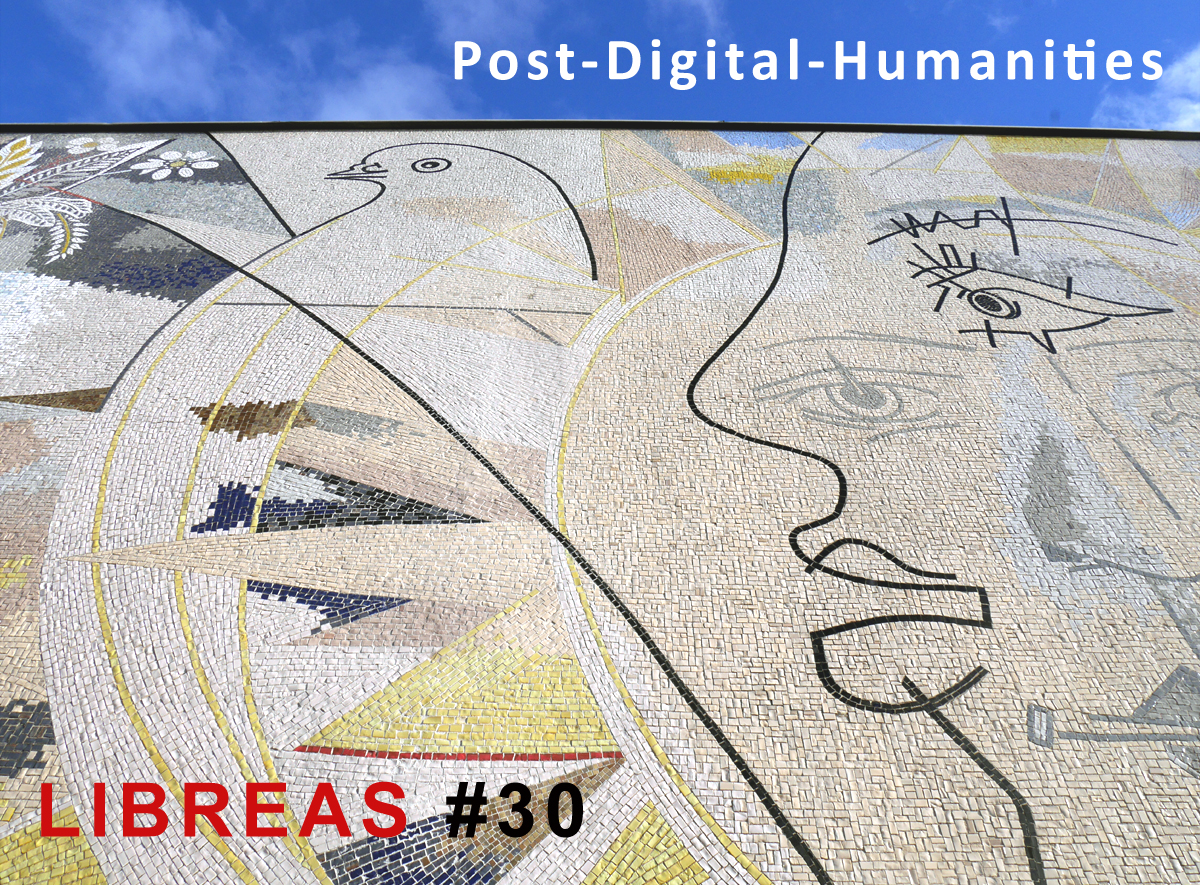
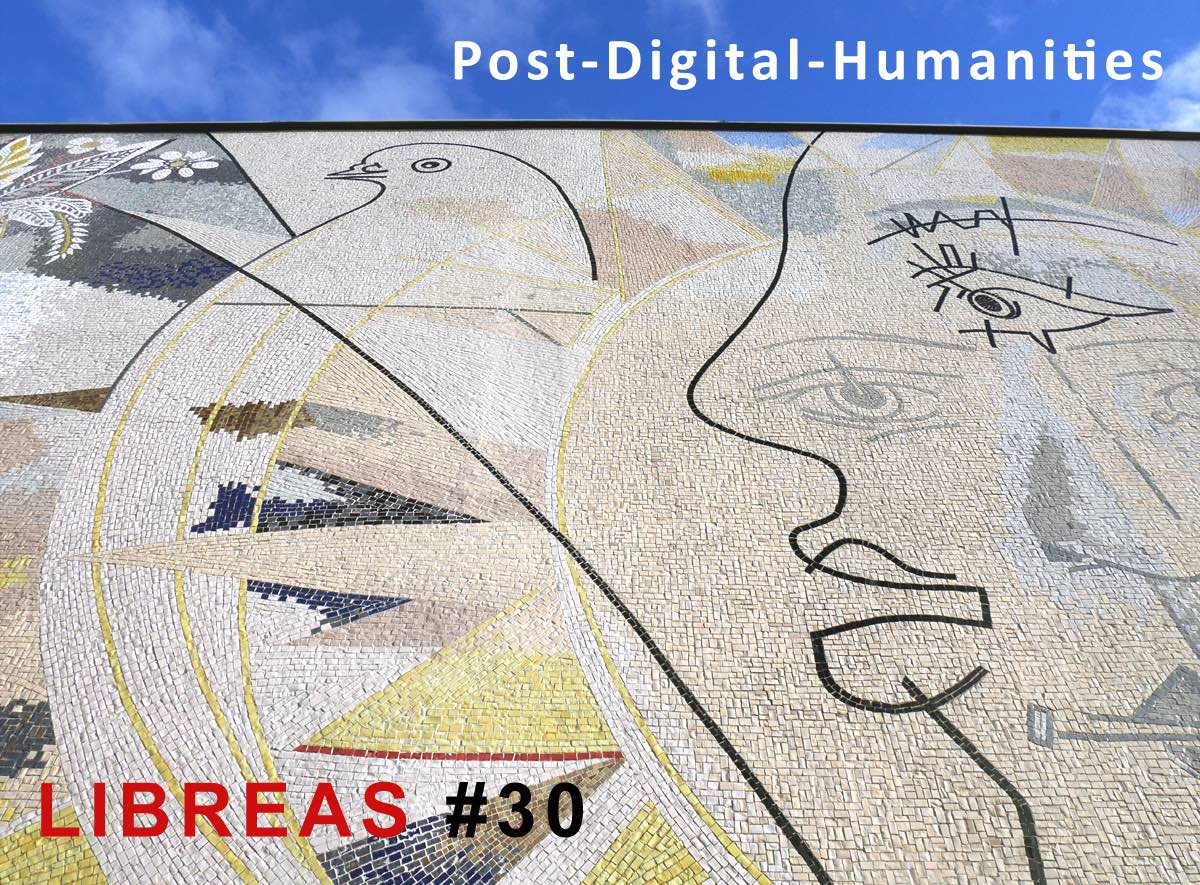
compress cover image

diff --git a/inhalt/index.html b/inhalt/index.html
@@ -34,7 +34,7 @@ footer: true
 
 <p>Dorothea Kühnlein &amp; Mareen Reichardt &mdash; <a href="../kuehnlein/">Rahmenbedingungen für das Publizieren eines Open-Access-Journals. Ein Szenario</a></p>
 
-<p>Fabio Tullio &mdash; <a href="../tulio/">Zur Legitimation Öffentlicher Bibliotheken</a></p>
+<p>Fabio Tullio &mdash; <a href="../tullio/">Zur Legitimation Öffentlicher Bibliotheken</a></p>
 
 <p>Juliane Waack &mdash; <a href="../waack/">Die Bibliografie von New Orleans. Zu einem Gedicht</a></p>
 
